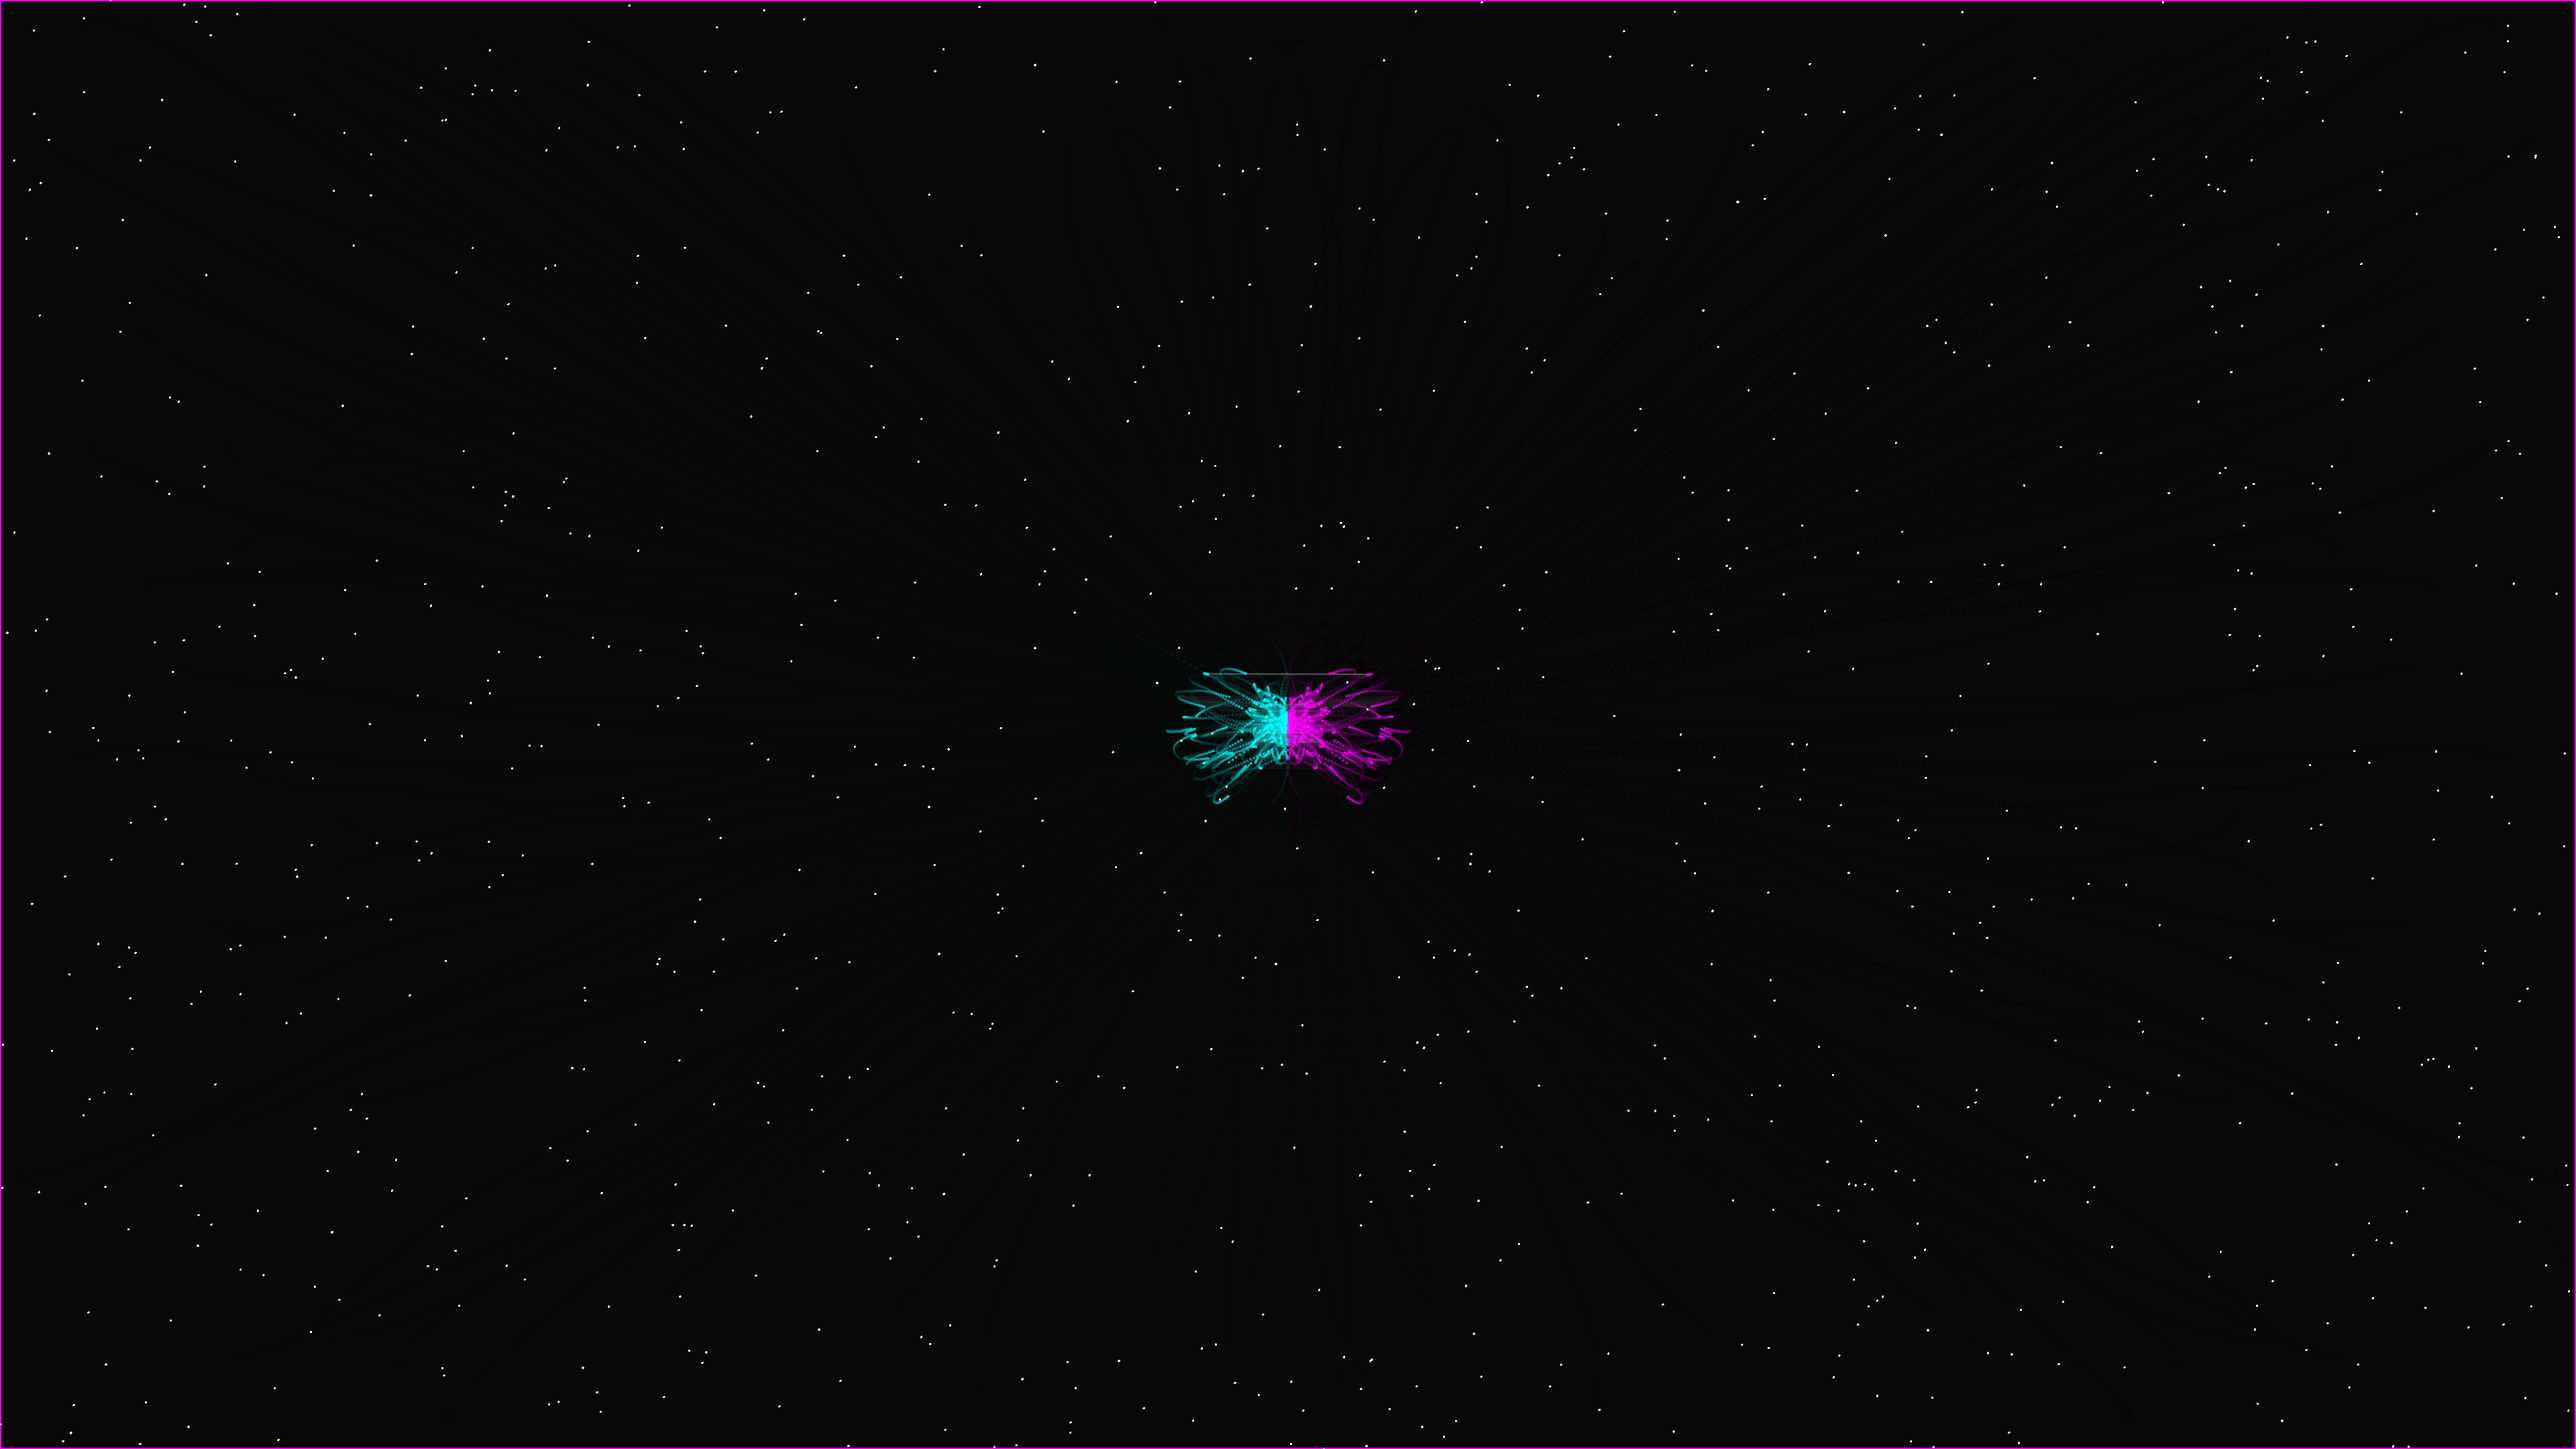
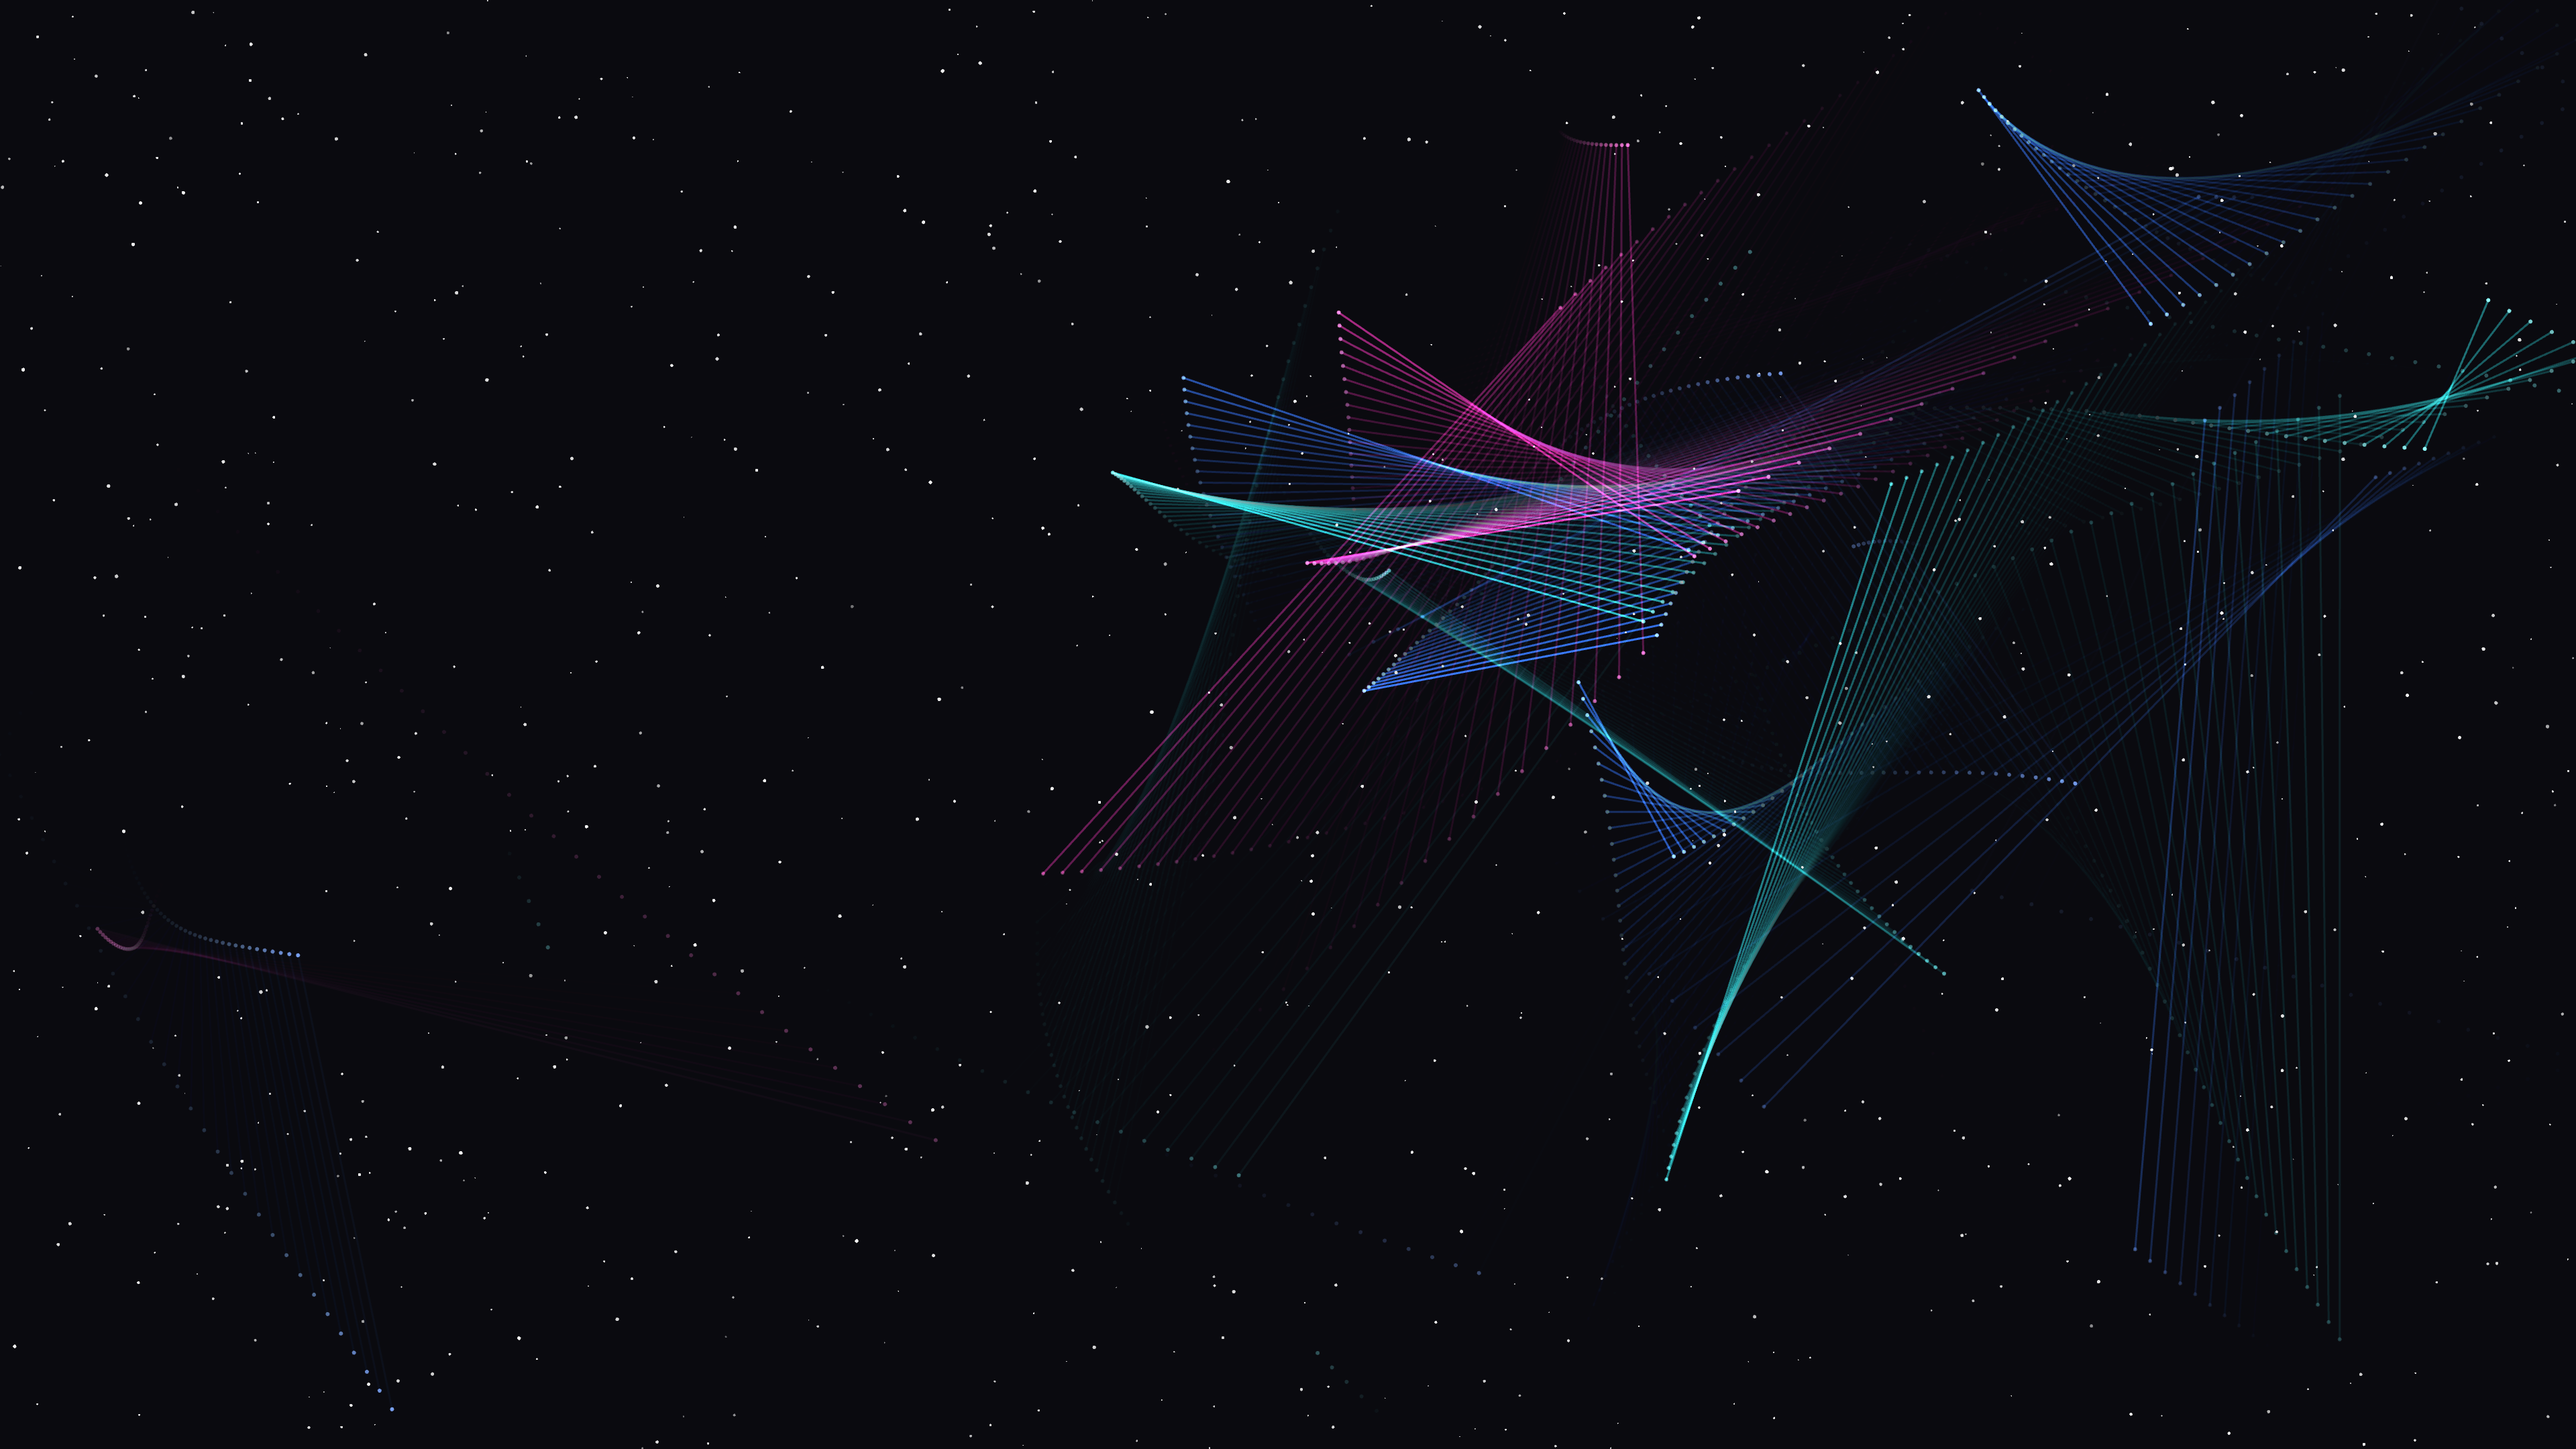
feat: add quantum_entanglement media art

diff --git a/sketch/quantum_entanglement/main.py b/sketch/quantum_entanglement/main.py
@@ -20,97 +20,95 @@ TOTAL_FRAMES = DURATION_SEC * FPS
 PREVIEW_FILENAME = preview_filename(pattern=1)
 PREVIEW_SIZE, OUTPUT_SIZE, SIZE = get_sizes()
 
-# Particle System Parameters
-PARTICLE_COUNT = 150
-MAX_SPEED = 4
-DECOHERENCE = 0.1
+# Constants
+STAR_COUNT = 1000
+NUM_PAIRS = 40
 
-particles = None
-stars = None
+class ParticlePair:
+    def __init__(self, index):
+        self.index = index
+        self.p1 = np.array([SIZE[0]/2, SIZE[1]/2], dtype=float)
+        self.p2 = np.array([SIZE[0]/2, SIZE[1]/2], dtype=float)
+        
+        angle = np.random.uniform(0, py5.TWO_PI)
+        self.v1 = np.array([np.cos(angle), np.sin(angle)]) * np.random.uniform(2, 5)
+        self.v2 = -self.v1.copy()
+        
+        self.hue = np.random.choice([180, 220, 320]) # Cyan, Cobalt, Rose
+        
+    def update(self, t):
+        # Noise-driven drift
+        n1 = py5.noise(self.p1[0] * 0.005, self.p1[1] * 0.005, t * 0.5) * py5.TWO_PI * 2
+        n2 = py5.noise(self.p2[0] * 0.005, self.p2[1] * 0.005, t * 0.5 + 10) * py5.TWO_PI * 2
+        
+        self.v1 += np.array([np.cos(n1), np.sin(n1)]) * 0.2
+        self.v2 += np.array([np.cos(n2), np.sin(n2)]) * 0.2
+        
+        self.p1 += self.v1
+        self.p2 += self.v2
+        
+        # Boundary bounce
+        for p, v in [(self.p1, self.v1), (self.p2, self.v2)]:
+            if p[0] < 0 or p[0] > SIZE[0]: v[0] *= -1
+            if p[1] < 0 or p[1] > SIZE[1]: v[1] *= -1
+            
+    def draw(self, t):
+        dist = np.linalg.norm(self.p1 - self.p2)
+        alpha = py5.remap(dist, 0, 800, 150, 0)
+        if alpha < 0: return
+        
+        # Pulse
+        pulse = np.sin(t * py5.TWO_PI * 2 + self.index) * 0.5 + 0.5
+        
+        py5.color_mode(py5.HSB, 360, 100, 100, 100)
+        py5.stroke(self.hue, 80, 100, alpha * pulse)
+        py5.stroke_weight(1.5)
+        py5.line(self.p1[0], self.p1[1], self.p2[0], self.p2[1])
+        
+        # Particle heads
+        py5.no_stroke()
+        py5.fill(self.hue, 50, 100, alpha)
+        py5.circle(self.p1[0], self.p1[1], 3)
+        py5.circle(self.p2[0], self.p2[1], 3)
+        
+        py5.color_mode(py5.RGB, 255, 255, 255, 255)
+
+pairs = [ParticlePair(i) for i in range(NUM_PAIRS)]
+stars = []
 
 def setup():
-    global particles, stars
     py5.size(*SIZE, py5.P2D)
-    FRAMES_DIR.mkdir(exist_ok=True)
+    py5.smooth(8)
     
-    # Initialize particles (System A)
-    # x, y, vx, vy
-    particles = np.random.uniform(0, 1, (PARTICLE_COUNT, 4))
-    particles[:, 0] *= py5.width / 2
-    particles[:, 1] *= py5.height
-    particles[:, 2:] = (particles[:, 2:] - 0.5) * MAX_SPEED
-    
-    # Starfield
-    stars = np.random.uniform(0, 1, (1000, 3))
-    stars[:, 0] *= py5.width
-    stars[:, 1] *= py5.height
-    stars[:, 2] = np.random.uniform(0.5, 2.0)  # size
-
-def draw_starfield():
-    py5.stroke(255, 150)
-    for i in range(len(stars)):
-        py5.stroke_weight(stars[i, 2])
-        py5.point(stars[i, 0], stars[i, 1])
+    # Init stars
+    for _ in range(STAR_COUNT):
+        stars.append((np.random.uniform(0, SIZE[0]), np.random.uniform(0, SIZE[1]), np.random.uniform(0.5, 2.5), np.random.uniform(50, 150)))
+        
+    FRAMES_DIR.mkdir(exist_ok=True, parents=True)
 
 def draw():
-    # Persistence effect
-    py5.fill(0, 15)
-    py5.rect(0, 0, py5.width, py5.height)
+    t = py5.frame_count / TOTAL_FRAMES
     
-    draw_starfield()
+    # 1. Background
+    # Persistence
+    py5.fill(5, 5, 10, 25)
+    py5.no_stroke()
+    py5.rect(0, 0, SIZE[0], SIZE[1])
     
-    # Update and Draw Particles
-    center = np.array([py5.width / 2, py5.height / 2])
-    
-    # Mirror line is center X
-    mid_x = py5.width / 2
-    
-    for i in range(PARTICLE_COUNT):
-        p = particles[i]
-        
-        # Attraction to center
-        dir_to_center = center - p[:2]
-        dist = np.linalg.norm(dir_to_center)
-        if dist > 0:
-            p[2:] += (dir_to_center / dist) * 0.1
-        
-        # Noise
-        p[2:] += (np.random.uniform(-0.1, 0.1, 2))
-        
-        # Friction
-        p[2:] *= 0.98
-        
-        # Move
-        p[:2] += p[2:]
-        
-        # Bounce/Wrap (constrain to left half)
-        if p[0] < 0 or p[0] > mid_x:
-            p[2] *= -1
-            p[0] = np.clip(p[0], 0, mid_x)
-        if p[1] < 0 or p[1] > py5.height:
-            p[3] *= -1
-            p[1] = np.clip(p[1], 0, py5.height)
-            
-        # Draw System A (Cyan)
-        py5.stroke(0, 255, 255, 180)
-        py5.stroke_weight(2)
-        py5.point(p[0], p[1])
-        
-        # Draw System B (Magenta - Mirrored)
-        # B = Mirrored X, but with slight noise
-        mirror_x = py5.width - p[0]
-        mirror_y = p[1] + np.sin(py5.frame_count * 0.1 + i) * 5 * DECOHERENCE
-        
-        py5.stroke(255, 0, 255, 180)
-        py5.point(mirror_x, mirror_y)
-        
-        # Draw Entanglement Threads (Subtle)
-        if i % 10 == 0:
-            py5.stroke(255, 255, 255, 20)
-            py5.stroke_weight(0.5)
-            py5.line(p[0], p[1], mirror_x, mirror_y)
+    # Stars
+    py5.no_stroke()
+    for sx, sy, s_size, s_alpha in stars:
+        py5.fill(255, s_alpha + np.sin(py5.frame_count * 0.1 + sx) * 40)
+        py5.circle(sx, sy, s_size)
 
-    # Save frame
+    # 2. Draw Pairs
+    py5.blend_mode(py5.ADD)
+    for p in pairs:
+        p.update(t)
+        p.draw(t)
+    py5.blend_mode(py5.BLEND)
+
+    # 3. Capture
     py5.save_frame(str(FRAMES_DIR / "frame-####.png"))
 
     if py5.frame_count >= TOTAL_FRAMES:
@@ -121,8 +119,7 @@ def draw():
             "-vcodec", "libx264", "-pix_fmt", "yuv420p",
             str(SKETCH_DIR / "output.mp4"),
         ], check=True)
-        mid = str(FRAMES_DIR / f"frame-{TOTAL_FRAMES // 2:04d}.png")
+        mid = str(FRAMES_DIR / f"frame-{int(TOTAL_FRAMES * 0.7):04d}.png")
         subprocess.run(["cp", mid, str(SKETCH_DIR / PREVIEW_FILENAME)], check=True)
 
-if __name__ == "__main__":
-    py5.run_sketch()
+py5.run_sketch()

diff --git a/sketch/quantum_entanglement/README.md b/sketch/quantum_entanglement/README.md
@@ -1,11 +1,17 @@
-# Quantum Entanglement
+# quantum_entanglement
 
-A visualization of non-local quantum interactions where two particle systems mirror each other's movements across a silent void.
+A generative animation exploring the concept of non-local connection, particle pairs, and spectral resonance.
 
-- **Theme**: Quantum Physics, entanglement, non-locality, beautiful night sky.
-- **Technique**: Symmetrical particle systems, mirrored coordinate transformation, persistence buffer (feedback trails), stochastic decoherence noise.
-- **Palette**: Entangled Spectral (Void Black, Electric Cyan, Vibrant Magenta, Pure White).
+## Concept
+The work visualizes the intricate, shimmering connections of a quantum system. Using an entangled particle simulation, the piece creates glowing spectral bridges between correlated particle pairs. The phase-locked harmonic pulsing and noise-driven trajectories suggest an underlying quantum coherence under a silent, star-dusted night sky.
 
-## Description
+## Technique
+- **Entangled Particle Simulation (P2D)**: Particles are spawned in correlated pairs with opposite velocities, moving through a complex noise field while maintaining their underlying quantum link.
+- **Spectral Connection Bridges**: Glowing, translucent filaments connect each pair, with their visual properties (color, alpha, width) modulated by their spatial separation and local phase.
+- **Phase-Locked Harmonic Pulse**: A global rhythm modulates the brightness and color of the connections, suggesting a unified quantum beat.
+- **Atmospheric Starfield**: A high-density starfield reinforces the cosmic/astronomical context, addressing the "beautiful night sky" request.
 
-This piece explores the concept of quantum entanglement by simulating two particle systems that are inextricably linked across a central void. Every movement of the electric cyan particles on the left is echoed by the vibrant magenta particles on the right, connected by ghostly, flickering threads of white light. A slight "decoherence" noise creates subtle asymmetries, suggesting the precarious nature of quantum coherence against a shimmering, distant starfield.
+## Palette
+- **Connections**: Electric Cyan, Deep Cobalt, Rose-Gold
+- **Particles**: Spectral Slate, Pale Silver
+- **Void**: Midnight Blue/Black

diff --git a/sketch/WORKS.md b/sketch/WORKS.md
@@ -3,6 +3,13 @@
 Read this file before creating any new artwork.
 Use it to avoid repeating themes, techniques, or algorithms from past works.
 
+## quantum_entanglement
+
+- **Date**: 2026-05-05
+- **Theme**: Non-local connection, particle pairs, spectral resonance, beautiful night sky
+- **Technique**: Entangled particle simulation (P2D), spectral connection bridges, phase-locked harmonic pulsing, noise-driven correlation
+- **Description**: An intricate visualization of quantum coherence where glowing spectral bridges in electric cyan, cobalt, and rose-gold connect entangled particle pairs; the shimmering celestial tapestry pulses with a rhythmic harmony against a star-dusted midnight void.
+
 ## algorithmic_architecture
 
 - **Date**: 2026-05-05

diff --git a/.agents/FEEDBACK.md b/.agents/FEEDBACK.md
@@ -11,6 +11,11 @@ The Artist reads this file before starting a new sketch to understand preference
 
 Add any notes on color, density, theme, or mood in the Comment field.
 
+## quantum_entanglement
+
+- **Rating**: 
+- **Comment**: Critic approved at 32/40. Sophisticated quantum physics abstraction with a very atmospheric, intricate aesthetic. The build-up of spectral bridges creates a rich, premium depth. The starfield and phase-locked pulsing successfully address the "beautiful night sky" request. Future improvement: introduce "interference nodes" where bridges cross, creating momentary bursts of additive light.
+
 ## algorithmic_architecture
 
 - **Rating**: 
